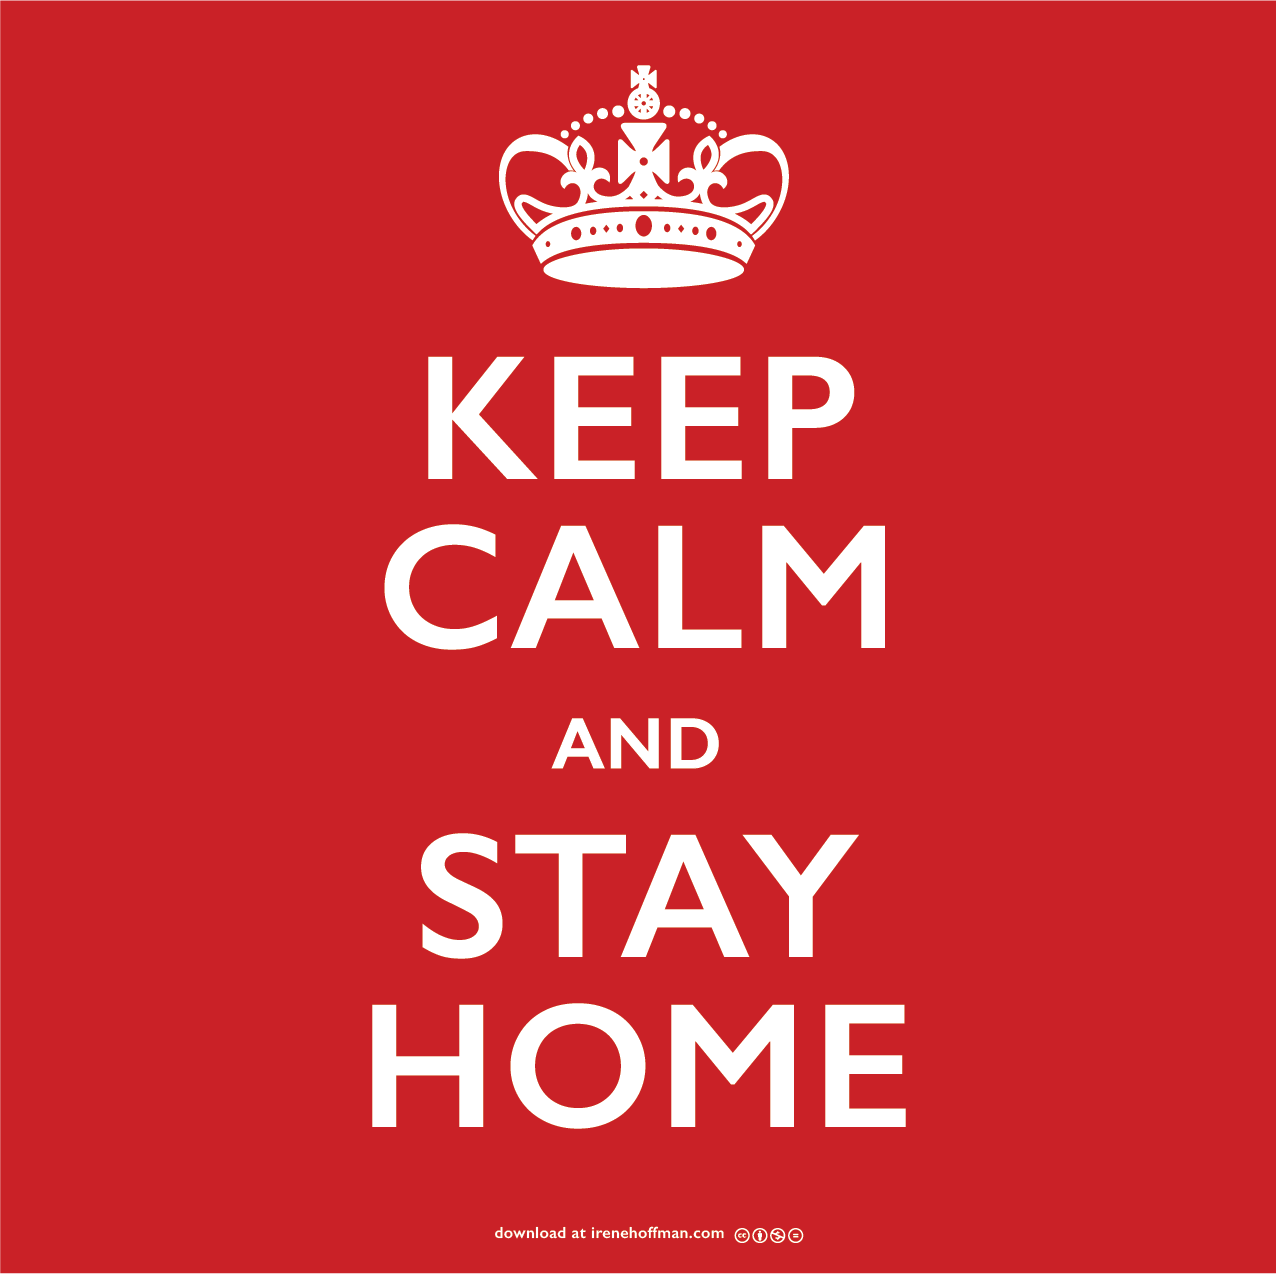
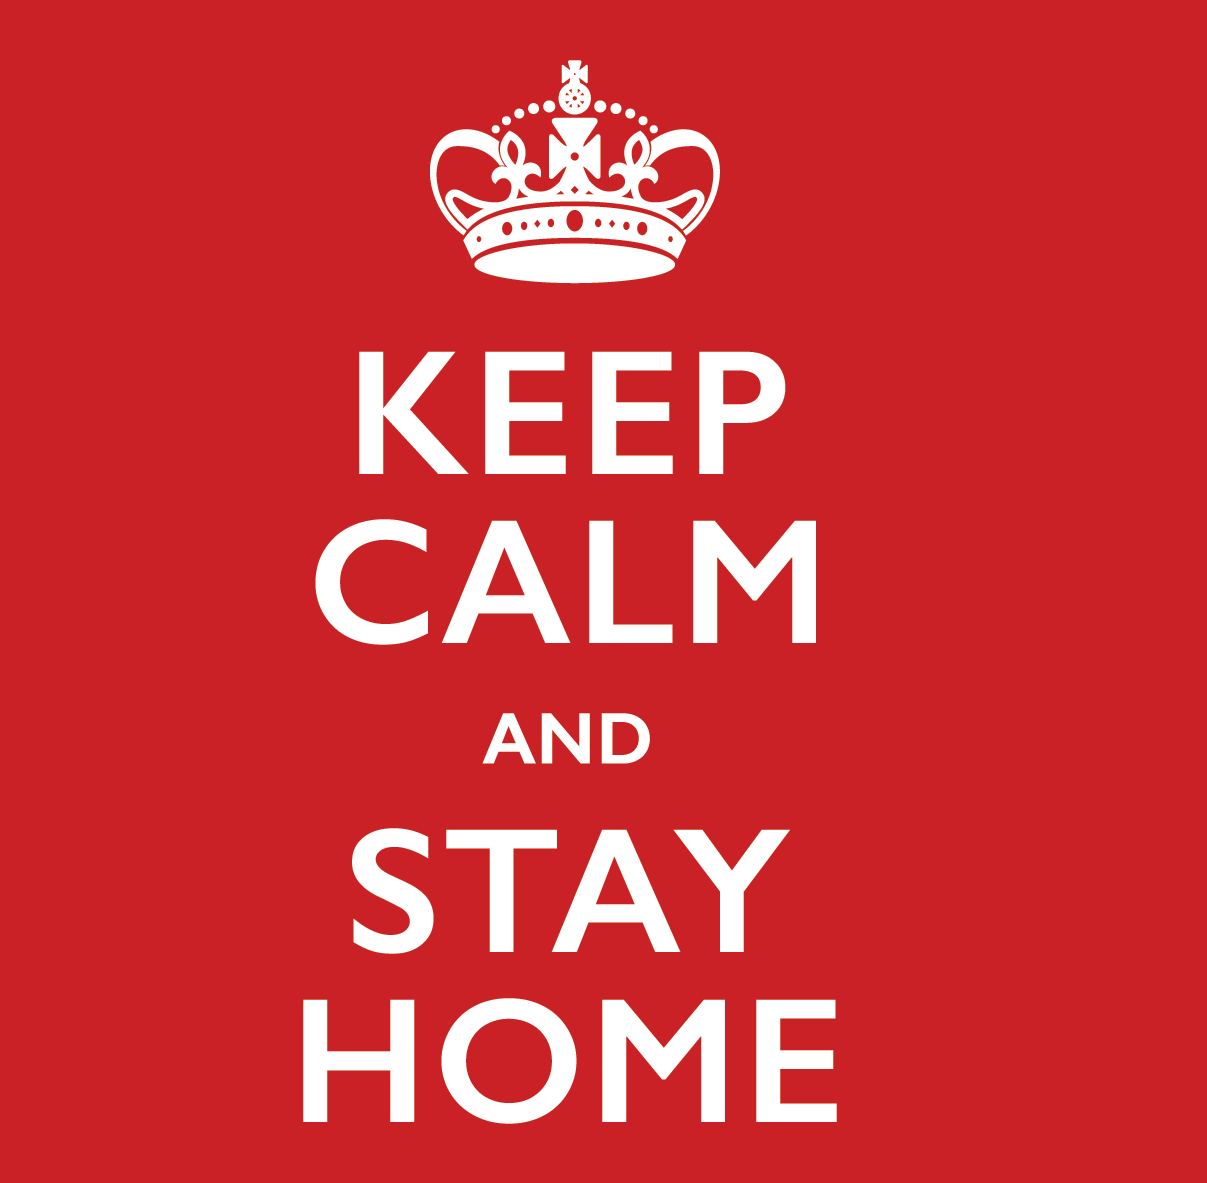
feat: add slider (Sun, Oct 17, 2021 19:00:00PM)

Changed region(s): [[0.2452, 0.2739, 0.7051, 0.9738], [0.3372, 0.0304, 0.6437, 0.2434]]

diff --git a/cssMemSlider/index.html b/cssMemSlider/index.html
@@ -13,18 +13,44 @@
 </head>
 <body class="body">
   <main class="wrapper grid body__wrapper">
-    <div class="images wrapper__images">
-      <img src="assets/images/stay-home.png" alt="stay-home">
+    <div class="slides wrapper__slides">
+      <div class="images">
+        <input type="radio" name="bullet" id="bullet_first" checked>
+        <input type="radio" name="bullet" id="bullet_second">
+        <input type="radio" name="bullet" id="bullet_third">
+        <input type="radio" name="bullet" id="bullet_forth">
+        <input type="radio" name="bullet" id="bullet_fifth">
+
+        <div class="image image_active">
+          <img src="assets/images/stay-home.png" alt="stay-home">
+        </div>
+        <div class="image">
+          <img src="assets/images/drink-water.png" alt="drink-water">
+        </div>
+        <div class="image">
+          <img src="assets/images/drink-wine.png" alt="drink-wine">
+        </div>
+        <div class="image">
+          <img src="assets/images/use-head.png" alt="use-head">
+        </div>
+        <div class="image">
+          <img src="assets/images/watch-ponies.png" alt="watch-ponies">
+        </div>
+      </div>
     </div>
     <div class="titles wrapper__titles">
-      <h2 class="title">Keep calm and stay home</h2>
+      <h2 class="title title_active">Keep calm and stay home</h2>
+      <!-- <h2 class="title">Keep calm and drink water</h2>
+      <h2 class="title">Keep calm and drink wine</h2>
+      <h2 class="title">Keep calm and use your head</h2>
+      <h2 class="title">Keep calm and watch-ponies</h2> -->
     </div>
     <div class="bullets wrapper__bullets">
-      <div class="bullet"></div>
-      <div class="bullet"></div>
-      <div class="bullet"></div>
-      <div class="bullet"></div>
-      <div class="bullet"></div>
+      <label for="bullet_first" class="bullet"></label>
+      <label for="bullet_second" class="bullet"></label>
+      <label for="bullet_third" class="bullet"></label>
+      <label for="bullet_forth" class="bullet"></label>
+      <label for="bullet_fifth" class="bullet"></label>
     </div>
   </main>
 </body>

diff --git a/cssMemSlider/style.css b/cssMemSlider/style.css
@@ -9,6 +9,12 @@ h2 {
   margin: 0;
 }
 
+/* Global */ 
+
+.body {
+  background-color: #e2e2e2;
+}
+
 /* Bullets */
 
 .bullet {
@@ -34,30 +40,71 @@ h2 {
   justify-self: end;
 }
 
+input[name="bullet"] {
+  position: absolute;
+  visibility: hidden;
+}
+
 /* Titles */
 
 .title {
   font-family: 'Cookie', cursive;
   font-size: 2rem;
   color: #424242;
-  width: fit-content;
+  width: max-content;
   padding-right: 2rem;
 }
 
 /* Slider */
 
-.images {
-  height: fit-content;
+.slides {
+  height: 85vh;
   width: 35vw;
   grid-column: 1 / 3;
+  overflow: hidden;
 }
 
-.wrapper__images {
+.wrapper__slides {
   margin: auto;
 }
 
-.images img {
-  width: 100%;
+.images {
+  display: flex;
+  width: 500%;
+  height: 100%;
+}
+
+.images .image {
+  width: 20%;
+  height: 100%;
+  transition: all 1s ease;
+  overflow: hidden;
+}
+
+.image img {
+  height: 100%;
+  display: block;
+  margin: auto;
+}
+
+#bullet_first:checked ~ .image_active {
+  margin-left: 0;
+}
+
+#bullet_second:checked ~ .image_active {
+  margin-left: -20%;
+}
+
+#bullet_third:checked ~ .image_active {
+  margin-left: -40%;
+}
+
+#bullet_forth:checked ~ .image_active {
+  margin-left: -60%;
+}
+
+#bullet_fifth:checked ~ .image_active {
+  margin-left: -80%;
 }
 
 /* Main */
@@ -74,5 +121,5 @@ h2 {
   display: grid;
   row-gap: 5vh;
   grid-template-rows: fit-content fit-content;
-  grid-template-columns: fit-content fit-content;
+  grid-template-columns: min-content fit-content;
 }

diff --git a/cssMemSlider/media.css b/cssMemSlider/media.css
@@ -1,17 +1,17 @@
 @media only screen and (max-width: 1200px) {
-  .images {
+  .slides {
     width: 50vw;
   }
 }
 
 @media only screen and (max-width: 800px) {
-  .images {
+  .slides {
     width: 60vw;
   }
 }
 
 @media only screen and (max-width: 650px) {
-  .images {
+  .slides {
     width: 70vw;
   }
 }
@@ -24,10 +24,12 @@
 
   .wrapper__bullets {
     margin: auto;
+    order: 1;
   }
 
   .wrapper__titles {
     margin: auto;
+    order: 2;
   }
 
   .title {
@@ -36,8 +38,9 @@
     padding-right: 0;
   }
 
-  .images {
+  .slides {
     width: 90vw;
+    height: 50vh;
   }
 
   .body__wrapper {
@@ -46,7 +49,7 @@
 }
 
 @media only screen and (max-width: 380px) {
-  .images {
+  .slides {
     width: 100vw;
   }
 }
